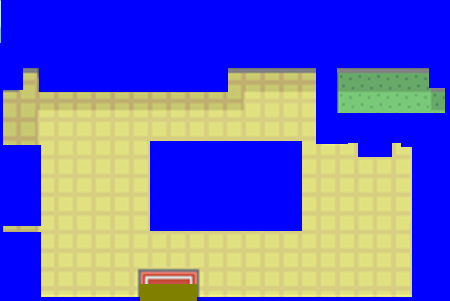
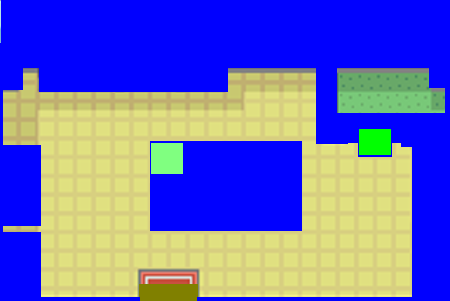
NPC text

Changed region(s): [[0.3111, 0.4485, 0.4044, 0.598], [0.7778, 0.4186, 0.8711, 0.5382]]

diff --git a/src/MasseyMon.java b/src/MasseyMon.java
@@ -17,8 +17,7 @@ public class MasseyMon extends JFrame {
 	public static MasseyMon frame;
 	public static ArrayList<pokeMap> maps = new ArrayList<pokeMap>();
 	public static ArrayList<ArrayList<pokeMapMini>> miniMaps = new ArrayList<ArrayList<pokeMapMini>>();
-	public static ArrayList<NPC> trainers = new ArrayList<NPC>();
-	public static ArrayList<ArrayList<NPC>> battleTrainers  = new ArrayList<ArrayList<NPC>>();
+	public static ArrayList<Image> trainers = new ArrayList<Image>();
 	private ArrayList<Pokemon> myPokes = new ArrayList<Pokemon>();
 	private ArrayList<Pokemon> enemyPokes = new ArrayList<Pokemon>();
 	private ArrayList<ArrayList<Pokemon>> allEncounters = new ArrayList<ArrayList<Pokemon>>();
@@ -586,7 +585,7 @@ public class MasseyMon extends JFrame {
 			String path = String.format("%s/%s/%s%d.png", "Images", "NPCs", "Trainer", i);
 			Image pic = ImageIO.read(new File(path));
 			try {
-				trainers.add(new NPC(pic));
+				trainers.add(pic);
 			}
 			catch (Exception e) {
 			}
@@ -599,7 +598,7 @@ public class MasseyMon extends JFrame {
 		}
 	}
 
-	public static NPC getTrainers(int n){
+	public static Image getTrainers(int n){
 		return trainers.get(n);
 	}
 
@@ -609,9 +608,6 @@ public class MasseyMon extends JFrame {
 
 	public static pokeMapMini getMiniMap( int n ,int k ) {
 		return miniMaps.get(n).get(k);
-	}
-	public static NPC getBattleTrainers(int n,int v){
-		return battleTrainers.get(n).get(v);
 	}
 	public ArrayList<Pokemon> getMyPokes(){
 		return myPokes;
@@ -654,10 +650,10 @@ class GamePanel extends JPanel {
 	private boolean oakTalked,oneTimeTalk,talkDone;
 	public static boolean inGrass;
 	private boolean spacePressed,movable,talking,hasStarter,trainerText,brockTalking,mistyTalking,giovanniTalking,titleScreen,championTalking;
-	private int direction,frameEvo;
+	private int direction,frameEvo,npcText1,npcText2;
 	private boolean ready = true;
 	private static boolean mini,starter;
-	private boolean onePressed,twoPressed,threePressed,fourPressed,fivePressed,sixPressed,sevenPressed,eightPressed,ninePressed;
+	private boolean npcTalk,npcTalk2,onePressed,twoPressed,threePressed,fourPressed,fivePressed,sixPressed,sevenPressed,eightPressed,ninePressed;
 	private boolean[] keys;
 	private Image [] starters;
 	private Image selectBox,evoBack,prof,hallOfFame,endScreen;
@@ -672,7 +668,6 @@ class GamePanel extends JPanel {
 	Items myItem;
 	Menu myMenu;
 	Player myGuy;
-	NPC myNPC;
 	private int x,y, dir;
 	private int DIRDOWN = 1,DIRRIGHT = 2, DIRUP = 3, DIRLEFT = 4;
 	private int alpha = 0;
@@ -724,10 +719,11 @@ class GamePanel extends JPanel {
 		sevenPressed = false;
 		eightPressed = false;
 		ninePressed = false;
+		npcTalk = false;
+		npcTalk2 = false;
 		starters = MasseyMon.starters;
 		keys = new boolean[KeyEvent.KEY_LAST + 1];
 		myGuy = new Player(0);
-		myNPC = new NPC(MasseyMon.getTrainers(0).getSprite());
 		myTitle = new TitleScreen();
 		myPokeMenu = new PokemonMenu();
 		myMenu = new Menu();
@@ -1044,21 +1040,58 @@ class GamePanel extends JPanel {
 
 			if (movable) {
 				if (picIndex == 0 && miniPicIndex == 1) {
-					g.drawImage(MasseyMon.getTrainers(0).getSprite(), 475, 300, this);
+					g.drawImage(MasseyMon.getTrainers(0), 475, 300, this);
 				}
 				if (pokeCenter()) {
-					g.drawImage(MasseyMon.getTrainers(1).getSprite(), 462, 290, this);
+					g.drawImage(MasseyMon.getTrainers(1), 462, 290, this);
 					myGuy.draw(g);
 				}
 				if (pokeShop()) {
-					g.drawImage(MasseyMon.getTrainers(2).getSprite(), 358, 350, this);
+					g.drawImage(MasseyMon.getTrainers(2), 358, 350, this);
 					myGuy.draw(g);
 				}
+			}
 				if (pokeHouse()) {
-					g.drawImage(MasseyMon.getTrainers(npc1).getSprite(), 407, 385, this);
-					g.drawImage(MasseyMon.getTrainers(npc2).getSprite(), 612, 360, this);
+					System.out.println(Textbox.getTextWriting());
+					g.drawImage(MasseyMon.getTrainers(npc1), 407, 385, this);
+					g.drawImage(MasseyMon.getTrainers(npc2), 612, 360, this);
+					if (npcTalk) {
+						if (Textbox.getTextWriting()) {
+							if (talking) {
+								Textbox.display(g, npcText1, spacePressed, onePressed, twoPressed, threePressed,
+										fourPressed, fivePressed, sixPressed, sevenPressed, eightPressed, ninePressed);
+								movable = false;
+								spacePressed = false;
+							}
+						} else {
+							g.setColor(new Color(0, 0, 0));
+							g.fillRect(0, 0, 956, 795);
+							g.drawImage(MasseyMon.getMiniMap(2, 3).getMap(), MasseyMon.getMiniMap(2, 3).getMapX(), MasseyMon.getMiniMap(2, 3).getMapY(), this);
+							g.drawImage(MasseyMon.getTrainers(npc1), 407, 385, this);
+							g.drawImage(MasseyMon.getTrainers(npc2), 612, 360, this);
+							talking = false;
+							movable = true;
+						}
+					}
+					else if (npcTalk2) {
+						if (Textbox.getTextWriting()) {
+							if (talking) {
+								Textbox.display(g, npcText2, spacePressed, onePressed, twoPressed, threePressed,
+										fourPressed, fivePressed, sixPressed, sevenPressed, eightPressed, ninePressed);
+								movable = false;
+								spacePressed = false;
+							}
+						} else {
+							g.setColor(new Color(0, 0, 0));
+							g.fillRect(0, 0, 956, 795);
+							g.drawImage(MasseyMon.getMiniMap(2, 3).getMap(), MasseyMon.getMiniMap(2, 3).getMapX(), MasseyMon.getMiniMap(2, 3).getMapY(), this);
+							g.drawImage(MasseyMon.getTrainers(npc1), 407, 385, this);
+							g.drawImage(MasseyMon.getTrainers(npc2), 612, 360, this);
+							talking = false;
+							movable = true;
+						}
+					}
 					myGuy.draw(g);
-				}
 			}
 			if (menu) {
 				Menu.display(g);
@@ -1366,6 +1399,8 @@ class GamePanel extends JPanel {
 							miniPicIndex += 2;
 							npc1 = randint(3, 17);
 							npc2 = randint(3, 17);
+							npcText1 = randint(17,27);
+							npcText2 = randint(17,27);
 							myGuy.setWorldX(MasseyMon.getMiniMap(picIndex, miniPicIndex).getStartPosX());
 							myGuy.setWorldY(MasseyMon.getMiniMap(picIndex, miniPicIndex).getStartPosY());
 							myGuy.setScreenY(MasseyMon.getMiniMap(picIndex, miniPicIndex).getStartPosY());
@@ -1376,6 +1411,8 @@ class GamePanel extends JPanel {
 							miniPicIndex += 1;
 							npc1 = randint(3, 17);
 							npc2 = randint(3, 17);
+							npcText1 = randint(17,27);
+							npcText2 = randint(17,27);
 							myGuy.setWorldX(MasseyMon.getMiniMap(picIndex, miniPicIndex).getStartPosX());
 							myGuy.setWorldY(MasseyMon.getMiniMap(picIndex, miniPicIndex).getStartPosY());
 							myGuy.setScreenY(MasseyMon.getMiniMap(picIndex, miniPicIndex).getStartPosY());
@@ -1386,6 +1423,8 @@ class GamePanel extends JPanel {
 							miniPicIndex += 3;
 							npc1 = randint(3, 17);
 							npc2 = randint(3, 17);
+							npcText1 = randint(17,27);
+							npcText2 = randint(17,27);
 							myGuy.setWorldX(MasseyMon.getMiniMap(picIndex, miniPicIndex).getStartPosX());
 							myGuy.setWorldY(MasseyMon.getMiniMap(picIndex, miniPicIndex).getStartPosY());
 							myGuy.setScreenY(MasseyMon.getMiniMap(picIndex, miniPicIndex).getStartPosY());
@@ -1395,6 +1434,8 @@ class GamePanel extends JPanel {
 							miniPicIndex += 4;
 							npc1 = randint(3, 17);
 							npc2 = randint(3, 17);
+							npcText1 = randint(17,27);
+							npcText2 = randint(17,27);
 							myGuy.setWorldX(MasseyMon.getMiniMap(picIndex, miniPicIndex).getStartPosX());
 							myGuy.setWorldY(MasseyMon.getMiniMap(picIndex, miniPicIndex).getStartPosY());
 							myGuy.setScreenY(MasseyMon.getMiniMap(picIndex, miniPicIndex).getStartPosY());
@@ -1404,6 +1445,8 @@ class GamePanel extends JPanel {
 							miniPicIndex += 5;
 							npc1 = randint(3, 17);
 							npc2 = randint(3, 17);
+							npcText1 = randint(17,27);
+							npcText2 = randint(17,27);
 							myGuy.setWorldX(MasseyMon.getMiniMap(picIndex, miniPicIndex).getStartPosX());
 							myGuy.setWorldY(MasseyMon.getMiniMap(picIndex, miniPicIndex).getStartPosY());
 							myGuy.setScreenY(MasseyMon.getMiniMap(picIndex, miniPicIndex).getStartPosY());
@@ -1580,6 +1623,8 @@ class GamePanel extends JPanel {
 						myGuy.move(direction, picIndex, miniPicIndex, mini);
 
 						if (checkExit1(myGuy.getWorldX() - 1, myGuy.getWorldY() + 27, myGuy.getWorldX() + 20, myGuy.getWorldY() + 27)) {
+							npcTalk = false;
+							npcTalk2 = false;
 							mini = false;
 							miniPicIndex -= 2;
 							myGuy.setWorldX(MasseyMon.getMap(picIndex).getStartPosX3());
@@ -1604,6 +1649,8 @@ class GamePanel extends JPanel {
 								myGuy.setScreenX(MasseyMon.getMap(picIndex).getStartPosX3());
 							}
 						} else if (checkExit2(myGuy.getWorldX() - 1, myGuy.getWorldY() + 27, myGuy.getWorldX() + 20, myGuy.getWorldY() + 27)) {
+							npcTalk = false;
+							npcTalk2 = false;
 							mini = false;
 							miniPicIndex -= 1;
 							myGuy.setWorldX(MasseyMon.getMap(picIndex).getStartPosX2());
@@ -1627,6 +1674,8 @@ class GamePanel extends JPanel {
 								myGuy.setScreenX(MasseyMon.getMap(picIndex).getStartPosX2());
 							}
 						} else if (checkExit3(myGuy.getWorldX() - 1, myGuy.getWorldY() + 27, myGuy.getWorldX() + 20, myGuy.getWorldY() + 27)) {
+							npcTalk = false;
+							npcTalk2 = false;
 							mini = false;
 							miniPicIndex -= 3;
 							myGuy.setWorldX(MasseyMon.getMap(picIndex).getStartPosX4());
@@ -1654,6 +1703,8 @@ class GamePanel extends JPanel {
 								myGuy.setScreenX(MasseyMon.getMap(picIndex).getStartPosX4());
 							}
 						} else if (checkExit4(myGuy.getWorldX() - 1, myGuy.getWorldY() + 27, myGuy.getWorldX() + 20, myGuy.getWorldY() + 27)) {
+							npcTalk = false;
+							npcTalk2 = false;
 							mini = false;
 							miniPicIndex -= 4;
 							myGuy.setWorldX(MasseyMon.getMap(picIndex).getStartPosX5());
@@ -1677,6 +1728,8 @@ class GamePanel extends JPanel {
 								myGuy.setScreenX(MasseyMon.getMap(picIndex).getStartPosX5());
 							}
 						} else if (checkExit5(myGuy.getWorldX() - 1, myGuy.getWorldY() + 27, myGuy.getWorldX() + 20, myGuy.getWorldY() + 27)) {
+							npcTalk = false;
+							npcTalk2 = false;
 							mini = false;
 							miniPicIndex -= 5;
 							myGuy.setWorldX(MasseyMon.getMap(picIndex).getStartPosX6());
@@ -2038,16 +2091,23 @@ class GamePanel extends JPanel {
 						if (direction == UP && (hasStarter || mini)) {
 							if (checkTalk(myGuy.getWorldX() + 7, myGuy.getWorldY() - 20, myGuy.getWorldX() + 14, myGuy.getWorldY() - 20)) {
 								talking = true;
+								npcTalk = true;
+							}
+							else if (checkNpcTalk(myGuy.getWorldX() + 7, myGuy.getWorldY() - 20, myGuy.getWorldX() + 14, myGuy.getWorldY() - 20)) {
+								npcTalk2 = true;
+								talking = true;
 							}
 						}
 						if (direction == DOWN) {
 							if (checkTalk(myGuy.getWorldX(), myGuy.getWorldY() + 37, myGuy.getWorldX() + 20, myGuy.getWorldY() + 37)) {
 								talking = true;
+								npcTalk = true;
 							}
 						}
 						if (direction == RIGHT) {
 							if (checkTalk(myGuy.getWorldX() + 35, myGuy.getWorldY() + 8, myGuy.getWorldX() + 35, myGuy.getWorldY() + 18)) {
 								talking = true;
+								npcTalk = true;
 							}
 						}
 						if (direction == LEFT) {
@@ -2362,6 +2422,24 @@ class GamePanel extends JPanel {
 		}
 
 		int WALL = 0xFF80FF80;
+		int c = maskPic.getRGB(x - posX, y - posY);
+		int d = maskPic.getRGB(x2 - posX, y2 - posY);
+		return c == WALL && d==WALL && spacePressed;
+	}
+
+	private boolean checkNpcTalk ( int x, int y, int x2,int y2){
+
+		BufferedImage maskPic = MasseyMon.getMap(picIndex).getMask();
+		int posX = MasseyMon.getMap(picIndex).getMapX();
+		int posY =  MasseyMon.getMap(picIndex).getMapY();
+
+		if (mini){
+			maskPic = MasseyMon.getMiniMap(picIndex,miniPicIndex).getMask();
+			posX = MasseyMon.getMiniMap(picIndex,miniPicIndex).getMapX();
+			posY =  MasseyMon.getMiniMap(picIndex,miniPicIndex).getMapY();
+		}
+
+		int WALL = 0xFF01FF01;
 		int c = maskPic.getRGB(x - posX, y - posY);
 		int d = maskPic.getRGB(x2 - posX, y2 - posY);
 		return c == WALL && d==WALL && spacePressed;

diff --git a/src/Textbox.java b/src/Textbox.java
@@ -10,8 +10,8 @@ public class Textbox {
     private static int count, textX, textY,pauseCount,box,arraySize,temp;
     private static boolean boxFull,textWriting;
     private static Image textBox;
-    private static String[][] words = new String[17][2];
-    private static int [] wordLen = new int [34];
+    private static String[][] words = new String[28][2];
+    private static int [] wordLen = new int [56];
 
     public Textbox() throws IOException {
         arraySize = 0;
@@ -25,7 +25,7 @@ public class Textbox {
         textBox = ImageIO.read(new File("Images/Text/Textbox.png"));
 
         Scanner inFile = new Scanner(new BufferedReader(new FileReader("Data/Textbox")));
-        for (int i = 0; i < 17; i++) {
+        for (int i = 0; i < 28; i++) {
             for (int k = 0; k<2; k++) {
                 String line = inFile.nextLine();
                 words[i][k] = line;
@@ -33,7 +33,7 @@ public class Textbox {
         }
 
         Scanner myFile = new Scanner(new BufferedReader(new FileReader("Data/TextboxCharacterLength")));
-        for (int i = 0; i < 34; i++) {
+        for (int i = 0; i < 56; i++) {
             int val = myFile.nextInt();
             wordLen[i] = val;
         }
